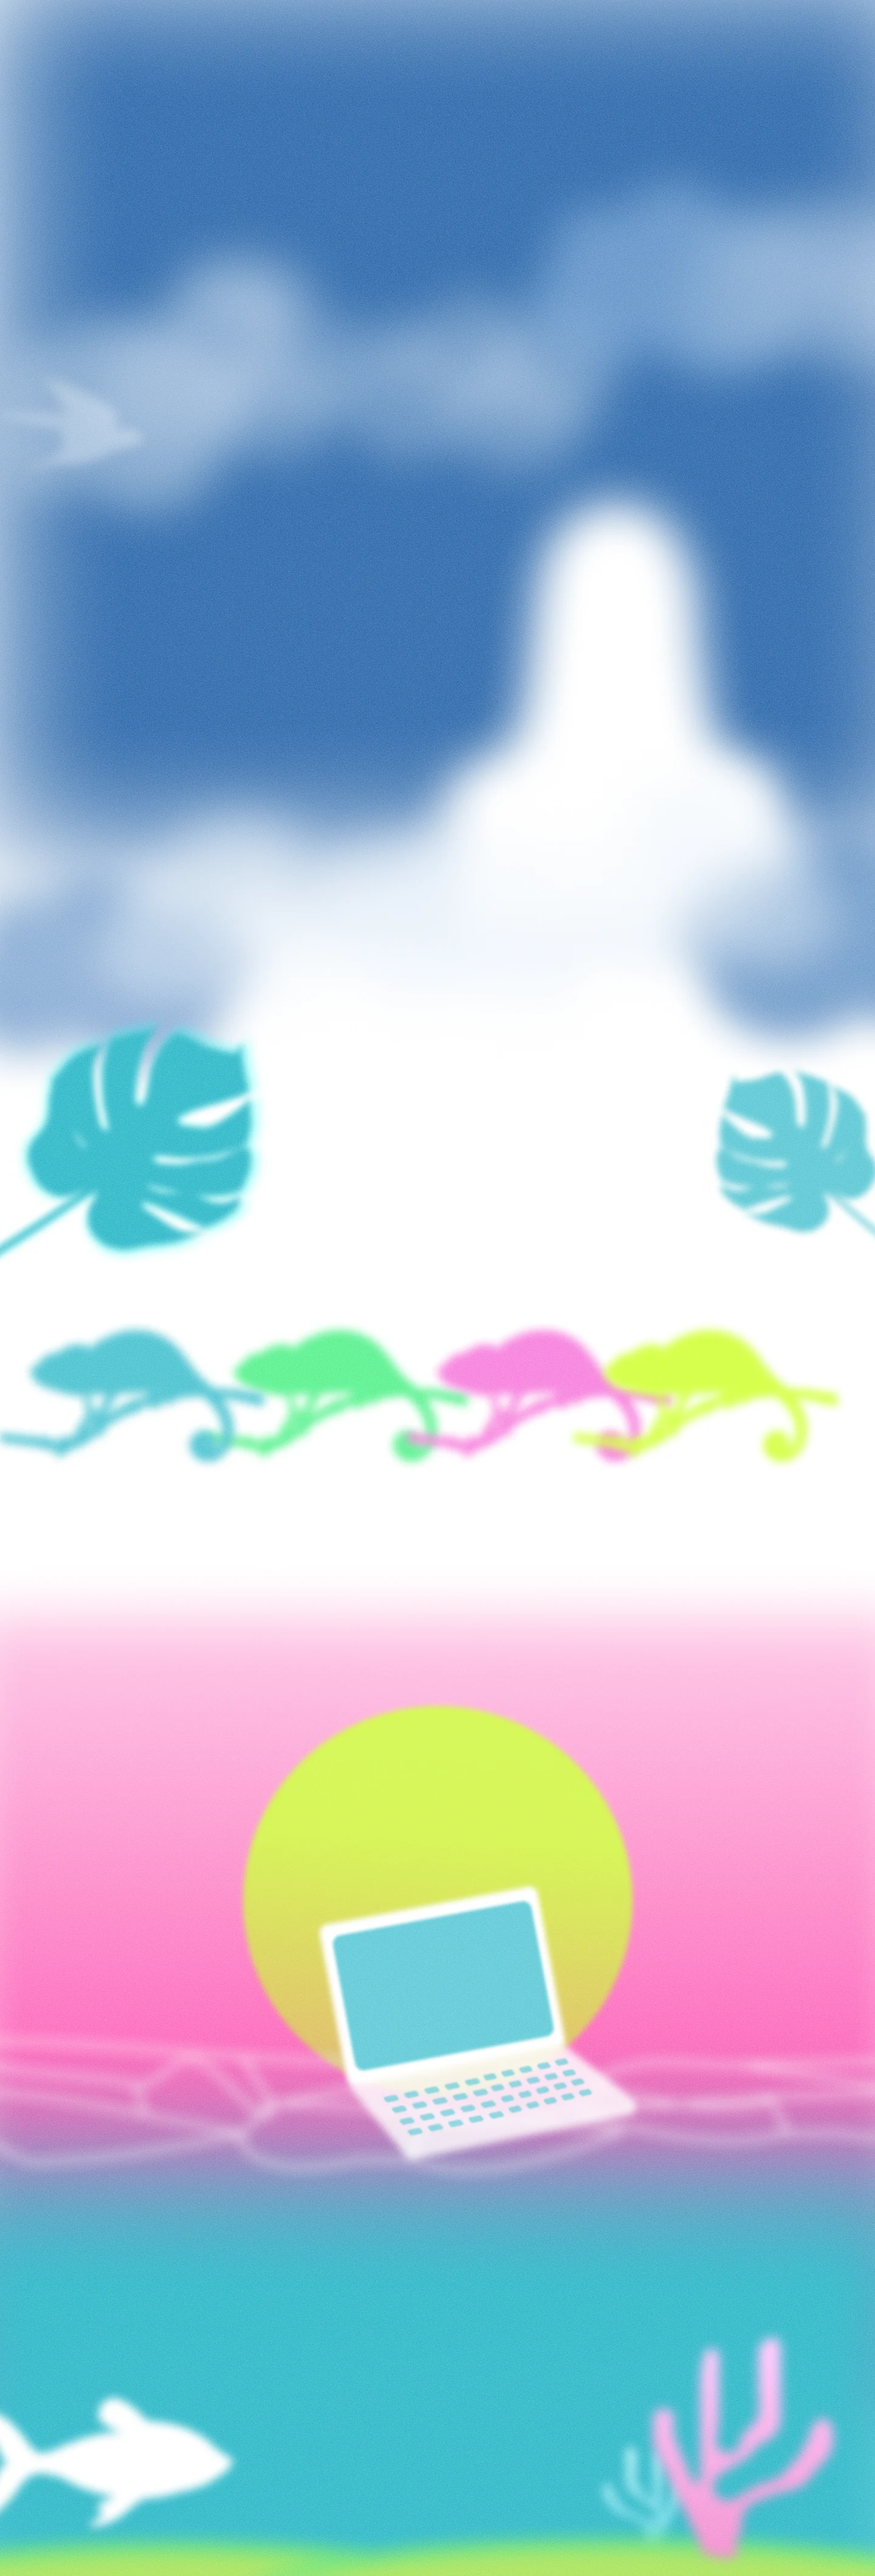
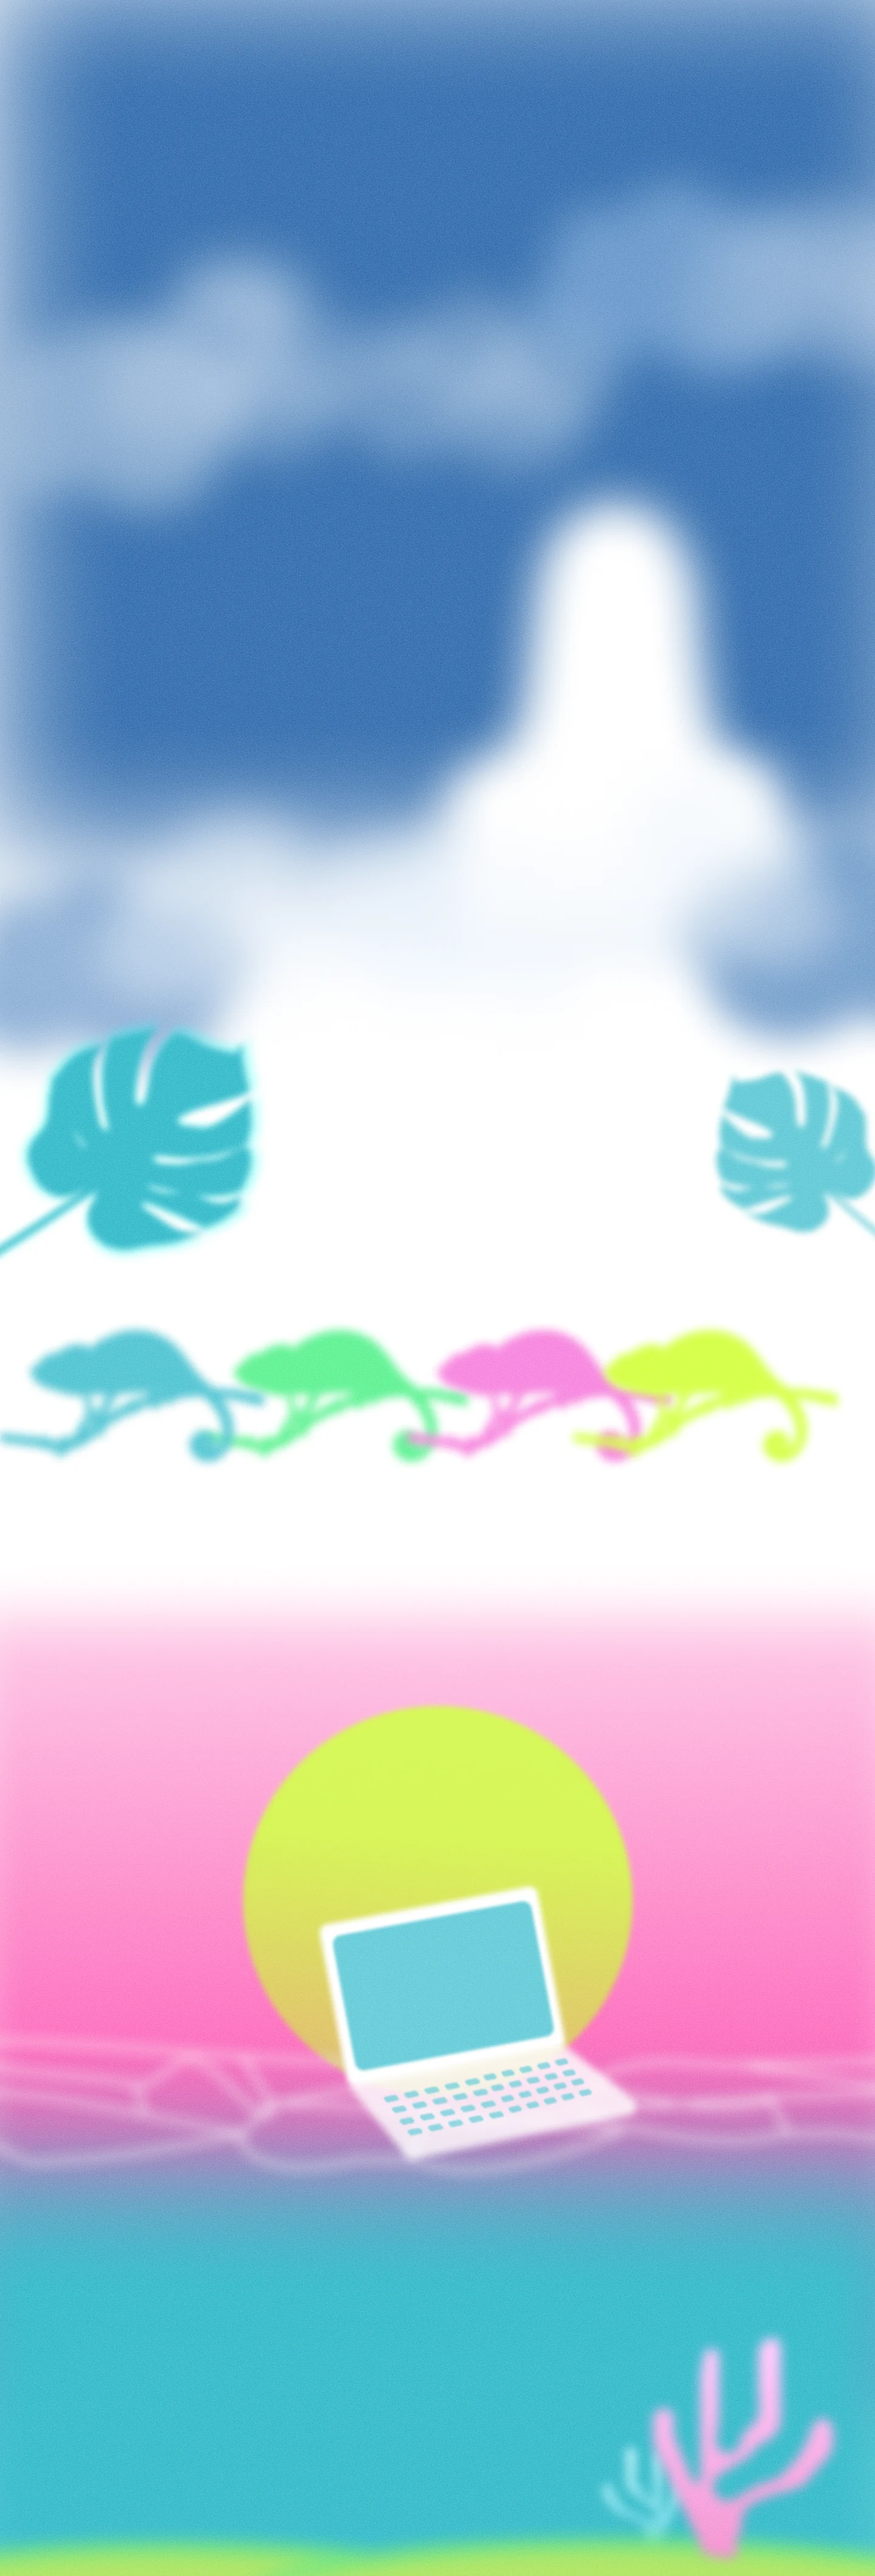
Animate the bird and fish
Background re-exported from Figma without the bird and fish. The fish is the
original animated GIF at its Figma position and blur, masked so it passes
behind the pink coral. The bird is recoloured to pure white (removing its grey
fringe), placed at its Figma size and position with opacity/blur fitted to the
Figma render, and glides gently (disabled for prefers-reduced-motion).

Claude-Session: https://claude.ai/code/session_01DvA43kwznhfsetrajp2DeL

Changed region(s): [[0.0, 0.9035, 0.2812, 0.9969], [0.0625, 0.1246, 0.1562, 0.1869]]

diff --git a/styles.css b/styles.css
@@ -50,6 +50,39 @@ body {
 /* Section anchors; children are positioned relative to the section's top */
 .sec { position: absolute; left: 0; width: 100%; }
 
+/* ---------- Creatures ----------
+   Blur/opacity fitted to the Figma render (Figma blur values are 2× CSS blur). */
+.bird {
+  opacity: .3;
+  filter: blur(3px);
+  animation: glide 7s ease-in-out infinite alternate;
+}
+@keyframes glide {
+  from { transform: translate(0, 0); }
+  50%  { transform: translate(40px, -14px); }
+  to   { transform: translate(80px, 4px); }
+}
+/* The fish swims behind the pink coral (baked into the background): cut the
+   coral's shape out of the fish. Coral sits at (1053.8, 3823.8) on the stage. */
+.fish {
+  filter: blur(4.2px);
+  pointer-events: none;
+  -webkit-mask-image: linear-gradient(#000, #000), url("assets/coral.svg");
+          mask-image: linear-gradient(#000, #000), url("assets/coral.svg");
+  -webkit-mask-position: 0 0, 1224.8px 506.8px;
+          mask-position: 0 0, 1224.8px 506.8px;
+  -webkit-mask-size: 100% 100%, 339px 406px;
+          mask-size: 100% 100%, 339px 406px;
+  -webkit-mask-repeat: no-repeat;
+          mask-repeat: no-repeat;
+  -webkit-mask-composite: xor;
+          mask-composite: exclude;
+}
+
+@media (prefers-reduced-motion: reduce) {
+  .bird { animation: none; }
+}
+
 /* ---------- Type ---------- */
 .type img { display: block; }
 :where(.l):where(p, h1, h2, a, nav) { white-space: nowrap; color: var(--white); font-weight: 400; }

diff --git a/index.html b/index.html
@@ -12,10 +12,14 @@
 </head>
 <body>
   <!-- Built from Figma frame "Main" (1440 × 4237). The artwork is one exported
-       background image; display headings are outlined SVGs exported from Figma
+       background image (minus the bird and fish, layered on top); display headings are outlined SVGs exported from Figma
        (exact letterforms); body text, nav, button and icons are live HTML at
        their Figma positions. script.js scales the 1440px stage to the viewport. -->
   <main class="stage" id="home">
+
+    <!-- Animated creatures, layered over the background at their Figma positions -->
+    <img class="l bird" style="--x:-8.01px;--y:620.56px;--w:249.91px;--h:156.28px" src="assets/bird.webp" alt="">
+    <img class="l fish" style="--x:-171px;--y:3317px;--w:3150px;--h:2100px" src="assets/fish.gif" alt="">
 
     <nav class="l nav" style="--x:1075.5px;--y:34px" aria-label="Main">
       <a href="#home">Home</a>
